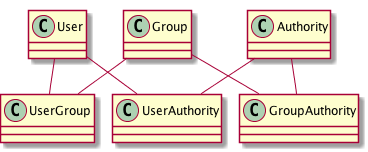
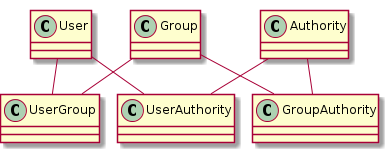
[maven-scm-plugin] added generated documentation

diff --git a/docs/index.html b/docs/index.html
@@ -522,7 +522,7 @@ table.CodeRay td.code>pre{padding:0}
 <h1>Owncloud Spring-Boot Starter User Manual</h1>
 <div class="details">
 <span id="author" class="author">Copyright (c) 2016 by the original Authors</span><br>
-<span id="revnumber">version 1.4.0</span>
+<span id="revnumber">version 1.5.0</span>
 </div>
 <div id="toc" class="toc2">
 <div id="toctitle">Table of Contents</div>
@@ -637,7 +637,7 @@ table.CodeRay td.code>pre{padding:0}
 <pre class="CodeRay highlight"><code data-lang="xml"><span class="tag">&lt;dependency&gt;</span>
   <span class="tag">&lt;groupId&gt;</span>software.coolstuff<span class="tag">&lt;/groupId&gt;</span>
   <span class="tag">&lt;artifactId&gt;</span>owncloud-spring-boot-starter<span class="tag">&lt;/artifactId&gt;</span>
-  <span class="tag">&lt;version&gt;</span>1.4.0<span class="tag">&lt;/version&gt;</span>
+  <span class="tag">&lt;version&gt;</span>1.5.0<span class="tag">&lt;/version&gt;</span>
 <span class="tag">&lt;/dependency&gt;</span></code></pre>
 </div>
 </div>
@@ -1249,7 +1249,7 @@ Also the RememberMe-Services based on Persistent Tokens will not work because yo
 </div>
 <div class="imageblock">
 <div class="content">
-<img src="./images/diagram-classes.png" alt="diagram classes" width="368" height="152">
+<img src="./images/diagram-classes.png" alt="diagram classes" width="388" height="152">
 </div>
 </div>
 <div class="paragraph">
@@ -2261,8 +2261,8 @@ can be maintained by Configuration Properties:</p>
 </div>
 <div id="footer">
 <div id="footer-text">
-Version 1.4.0<br>
-Last updated 2018-07-04 20:45:52 CEST
+Version 1.5.0<br>
+Last updated 2020-04-19 16:27:14 CEST
 </div>
 </div>
 </body>

diff --git a/docs/inc/quickstart.html b/docs/inc/quickstart.html
@@ -534,7 +534,7 @@ table.CodeRay td.code>pre{padding:0}
 <pre class="CodeRay highlight"><code data-lang="xml"><span class="tag">&lt;dependency&gt;</span>
   <span class="tag">&lt;groupId&gt;</span>software.coolstuff<span class="tag">&lt;/groupId&gt;</span>
   <span class="tag">&lt;artifactId&gt;</span>owncloud-spring-boot-starter<span class="tag">&lt;/artifactId&gt;</span>
-  <span class="tag">&lt;version&gt;</span>1.4.0<span class="tag">&lt;/version&gt;</span>
+  <span class="tag">&lt;version&gt;</span>1.5.0<span class="tag">&lt;/version&gt;</span>
 <span class="tag">&lt;/dependency&gt;</span></code></pre>
 </div>
 </div>
@@ -570,8 +570,8 @@ table.CodeRay td.code>pre{padding:0}
 </div>
 <div id="footer">
 <div id="footer-text">
-Version 1.4.0<br>
-Last updated 2018-07-04 09:10:54 CEST
+Version 1.5.0<br>
+Last updated 2020-04-19 16:27:14 CEST
 </div>
 </div>
 </body>

diff --git a/docs/inc/authentication.html b/docs/inc/authentication.html
@@ -624,7 +624,7 @@ Also the RememberMe-Services based on Persistent Tokens will not work because yo
 </div>
 <div class="imageblock">
 <div class="content">
-<img src="images/diagram-classes.png" alt="diagram classes" width="368" height="152">
+<img src="images/diagram-classes.png" alt="diagram classes" width="388" height="152">
 </div>
 </div>
 <div class="paragraph">
@@ -737,8 +737,8 @@ Also the RememberMe-Services based on Persistent Tokens will not work because yo
 </div>
 <div id="footer">
 <div id="footer-text">
-Version 1.4.0<br>
-Last updated 2018-07-04 09:10:54 CEST
+Version 1.5.0<br>
+Last updated 2020-04-19 16:27:14 CEST
 </div>
 </div>
 </body>

diff --git a/docs/inc/groupService.html b/docs/inc/groupService.html
@@ -631,8 +631,8 @@ all Memberships of this Group will also be removed. Also all Shares (Files, Cale
 </div>
 <div id="footer">
 <div id="footer-text">
-Version 1.4.0<br>
-Last updated 2018-07-04 09:10:54 CEST
+Version 1.5.0<br>
+Last updated 2020-04-19 16:27:14 CEST
 </div>
 </div>
 </body>

diff --git a/docs/inc/modificationChecker.html b/docs/inc/modificationChecker.html
@@ -542,8 +542,8 @@ To deny Modifications by <code>OwncloudUserService</code> and <code>OwncloudGrou
 </div>
 <div id="footer">
 <div id="footer-text">
-Version 1.4.0<br>
-Last updated 2018-07-04 09:10:54 CEST
+Version 1.5.0<br>
+Last updated 2020-04-19 16:27:14 CEST
 </div>
 </div>
 </body>

diff --git a/docs/inc/userService.html b/docs/inc/userService.html
@@ -710,8 +710,8 @@ in Hands you can create a new <code>OwncloudModificationUser</code>.</p>
 </div>
 <div id="footer">
 <div id="footer-text">
-Version 1.4.0<br>
-Last updated 2018-07-04 09:10:54 CEST
+Version 1.5.0<br>
+Last updated 2020-04-19 16:27:14 CEST
 </div>
 </div>
 </body>

diff --git a/docs/inc/whatsIncluded.html b/docs/inc/whatsIncluded.html
@@ -642,8 +642,8 @@ using the Spring Security Authentication Mechanism</p>
 </div>
 <div id="footer">
 <div id="footer-text">
-Version 1.4.0<br>
-Last updated 2018-07-04 09:10:54 CEST
+Version 1.5.0<br>
+Last updated 2020-04-19 16:27:14 CEST
 </div>
 </div>
 </body>

diff --git a/docs/inc/resourceService.html b/docs/inc/resourceService.html
@@ -1021,8 +1021,8 @@ can be maintained by Configuration Properties:</p>
 </div>
 <div id="footer">
 <div id="footer-text">
-Version 1.4.0<br>
-Last updated 2018-07-04 09:10:54 CEST
+Version 1.5.0<br>
+Last updated 2020-04-19 16:27:14 CEST
 </div>
 </div>
 </body>

diff --git a/docs/inc/configuration.html b/docs/inc/configuration.html
@@ -854,8 +854,8 @@ for local Development and/or Unit Tests.</p>
 </div>
 <div id="footer">
 <div id="footer-text">
-Version 1.4.0<br>
-Last updated 2018-07-04 09:10:54 CEST
+Version 1.5.0<br>
+Last updated 2020-04-19 16:27:14 CEST
 </div>
 </div>
 </body>

diff --git a/docs/inc/audience.html b/docs/inc/audience.html
@@ -547,8 +547,8 @@ table.CodeRay td.code>pre{padding:0}
 </div>
 <div id="footer">
 <div id="footer-text">
-Version 1.4.0<br>
-Last updated 2018-07-04 20:29:40 CEST
+Version 1.5.0<br>
+Last updated 2020-04-19 16:27:14 CEST
 </div>
 </div>
 </body>

diff --git a/docs/inc/changelog.html b/docs/inc/changelog.html
@@ -541,8 +541,8 @@ table.CodeRay td.code>pre{padding:0}
 </div>
 <div id="footer">
 <div id="footer-text">
-Version 1.4.0<br>
-Last updated 2018-07-04 20:48:10 CEST
+Version 1.5.0<br>
+Last updated 2020-04-19 16:27:14 CEST
 </div>
 </div>
 </body>

diff --git a/docs/inc/legal.html b/docs/inc/legal.html
@@ -539,8 +539,8 @@ table.CodeRay td.code>pre{padding:0}
 </div>
 <div id="footer">
 <div id="footer-text">
-Version 1.4.0<br>
-Last updated 2018-07-04 09:10:54 CEST
+Version 1.5.0<br>
+Last updated 2020-04-19 16:27:14 CEST
 </div>
 </div>
 </body>
